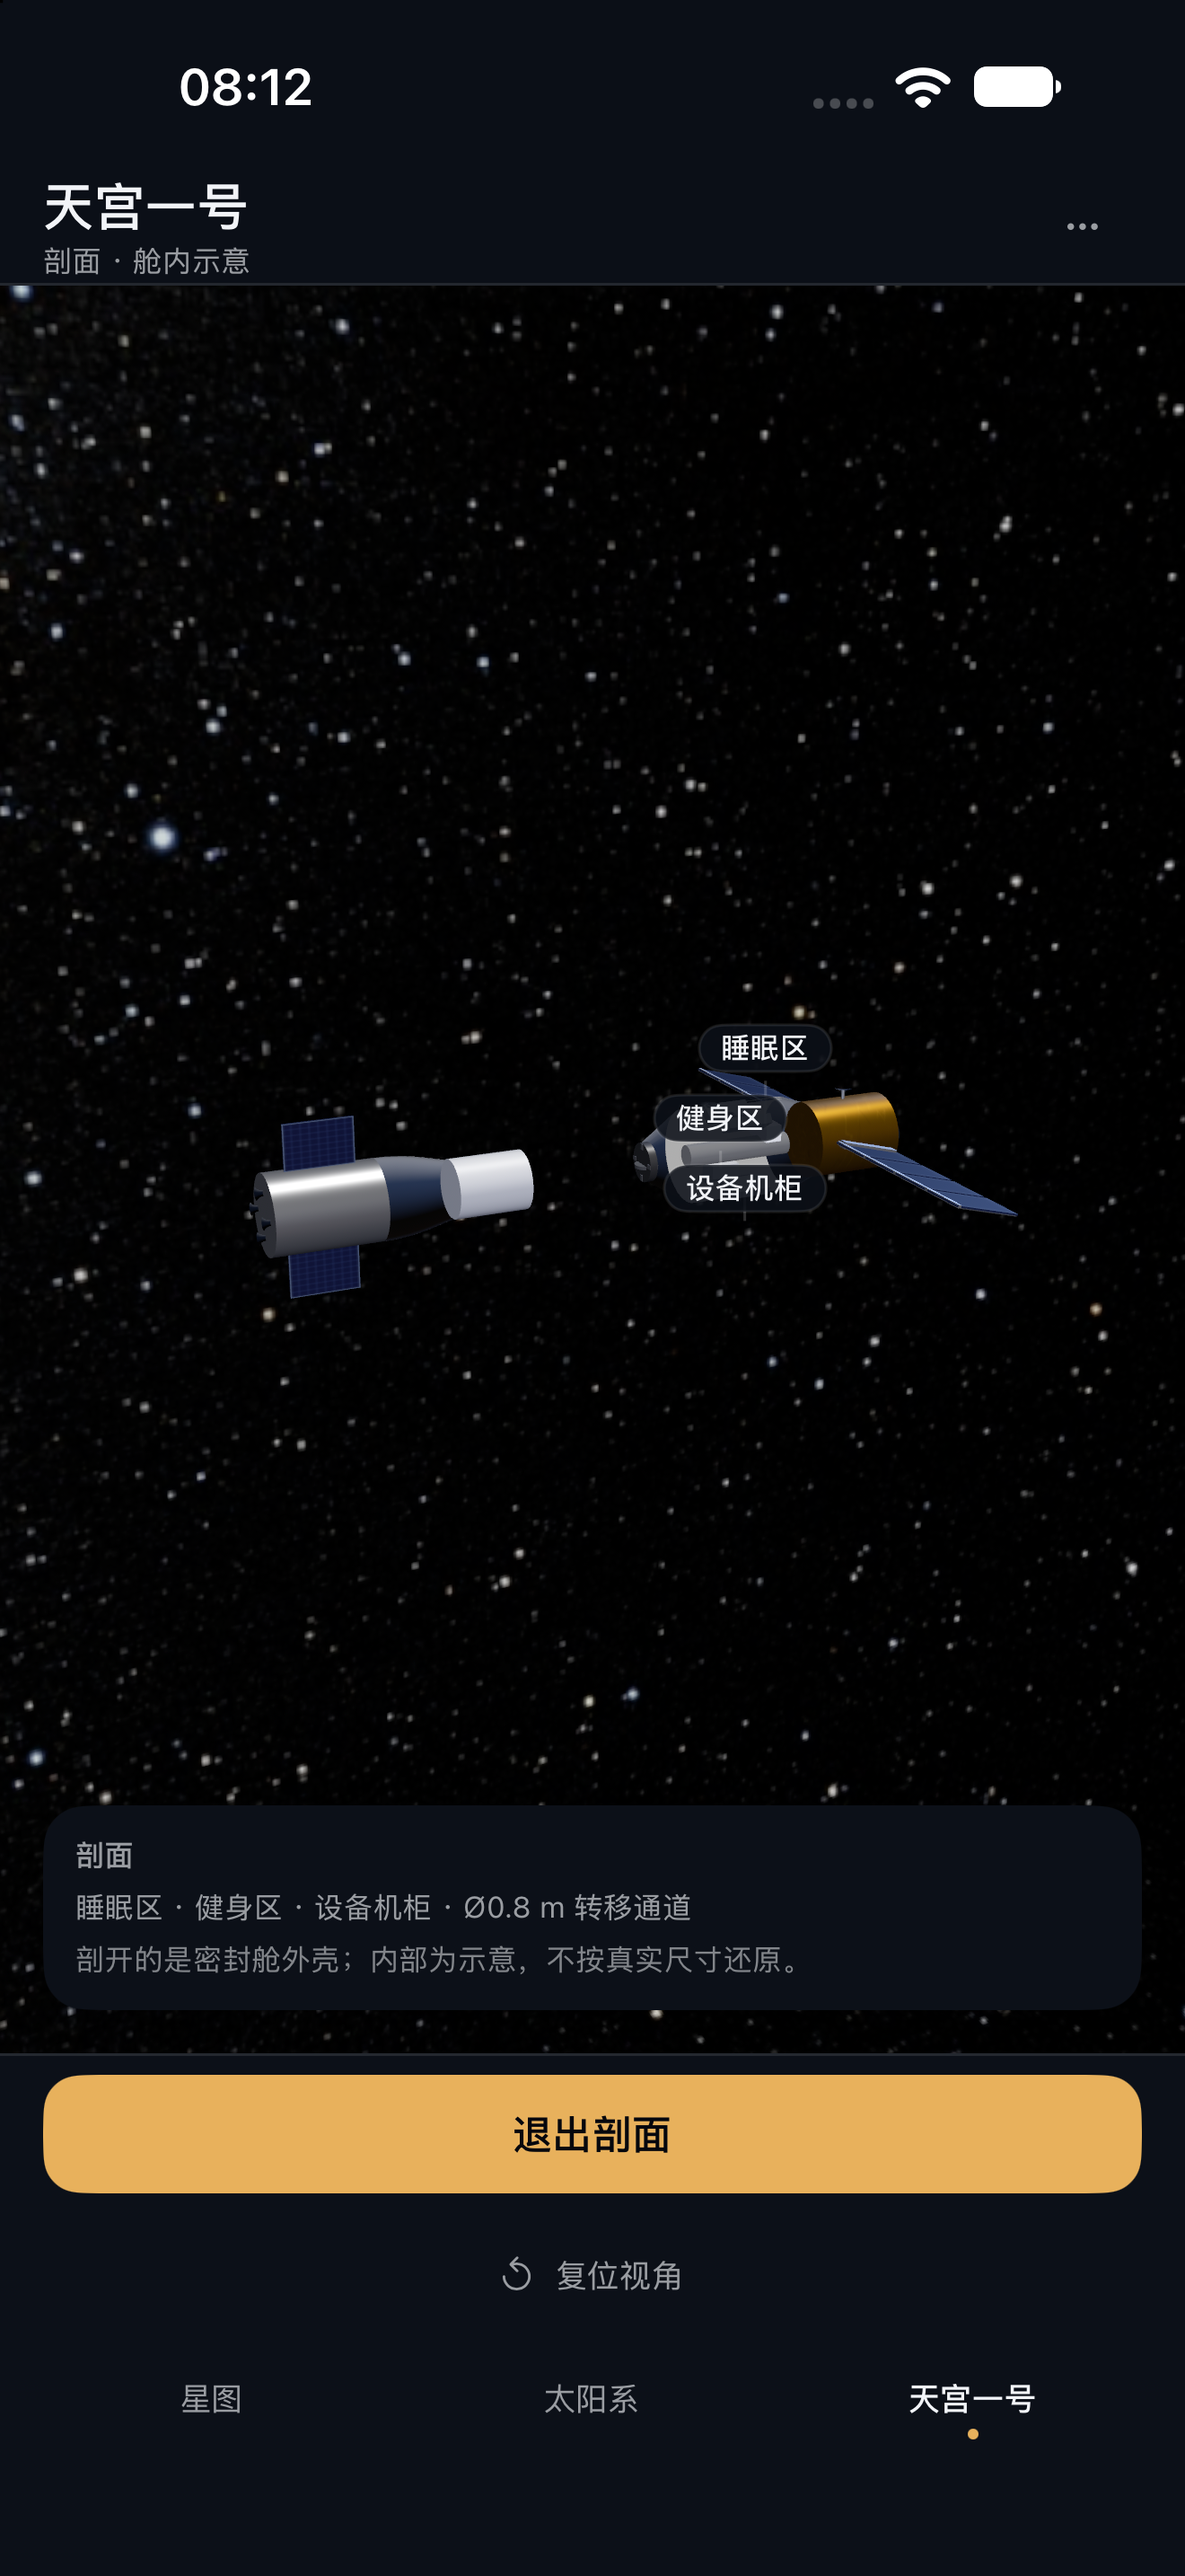
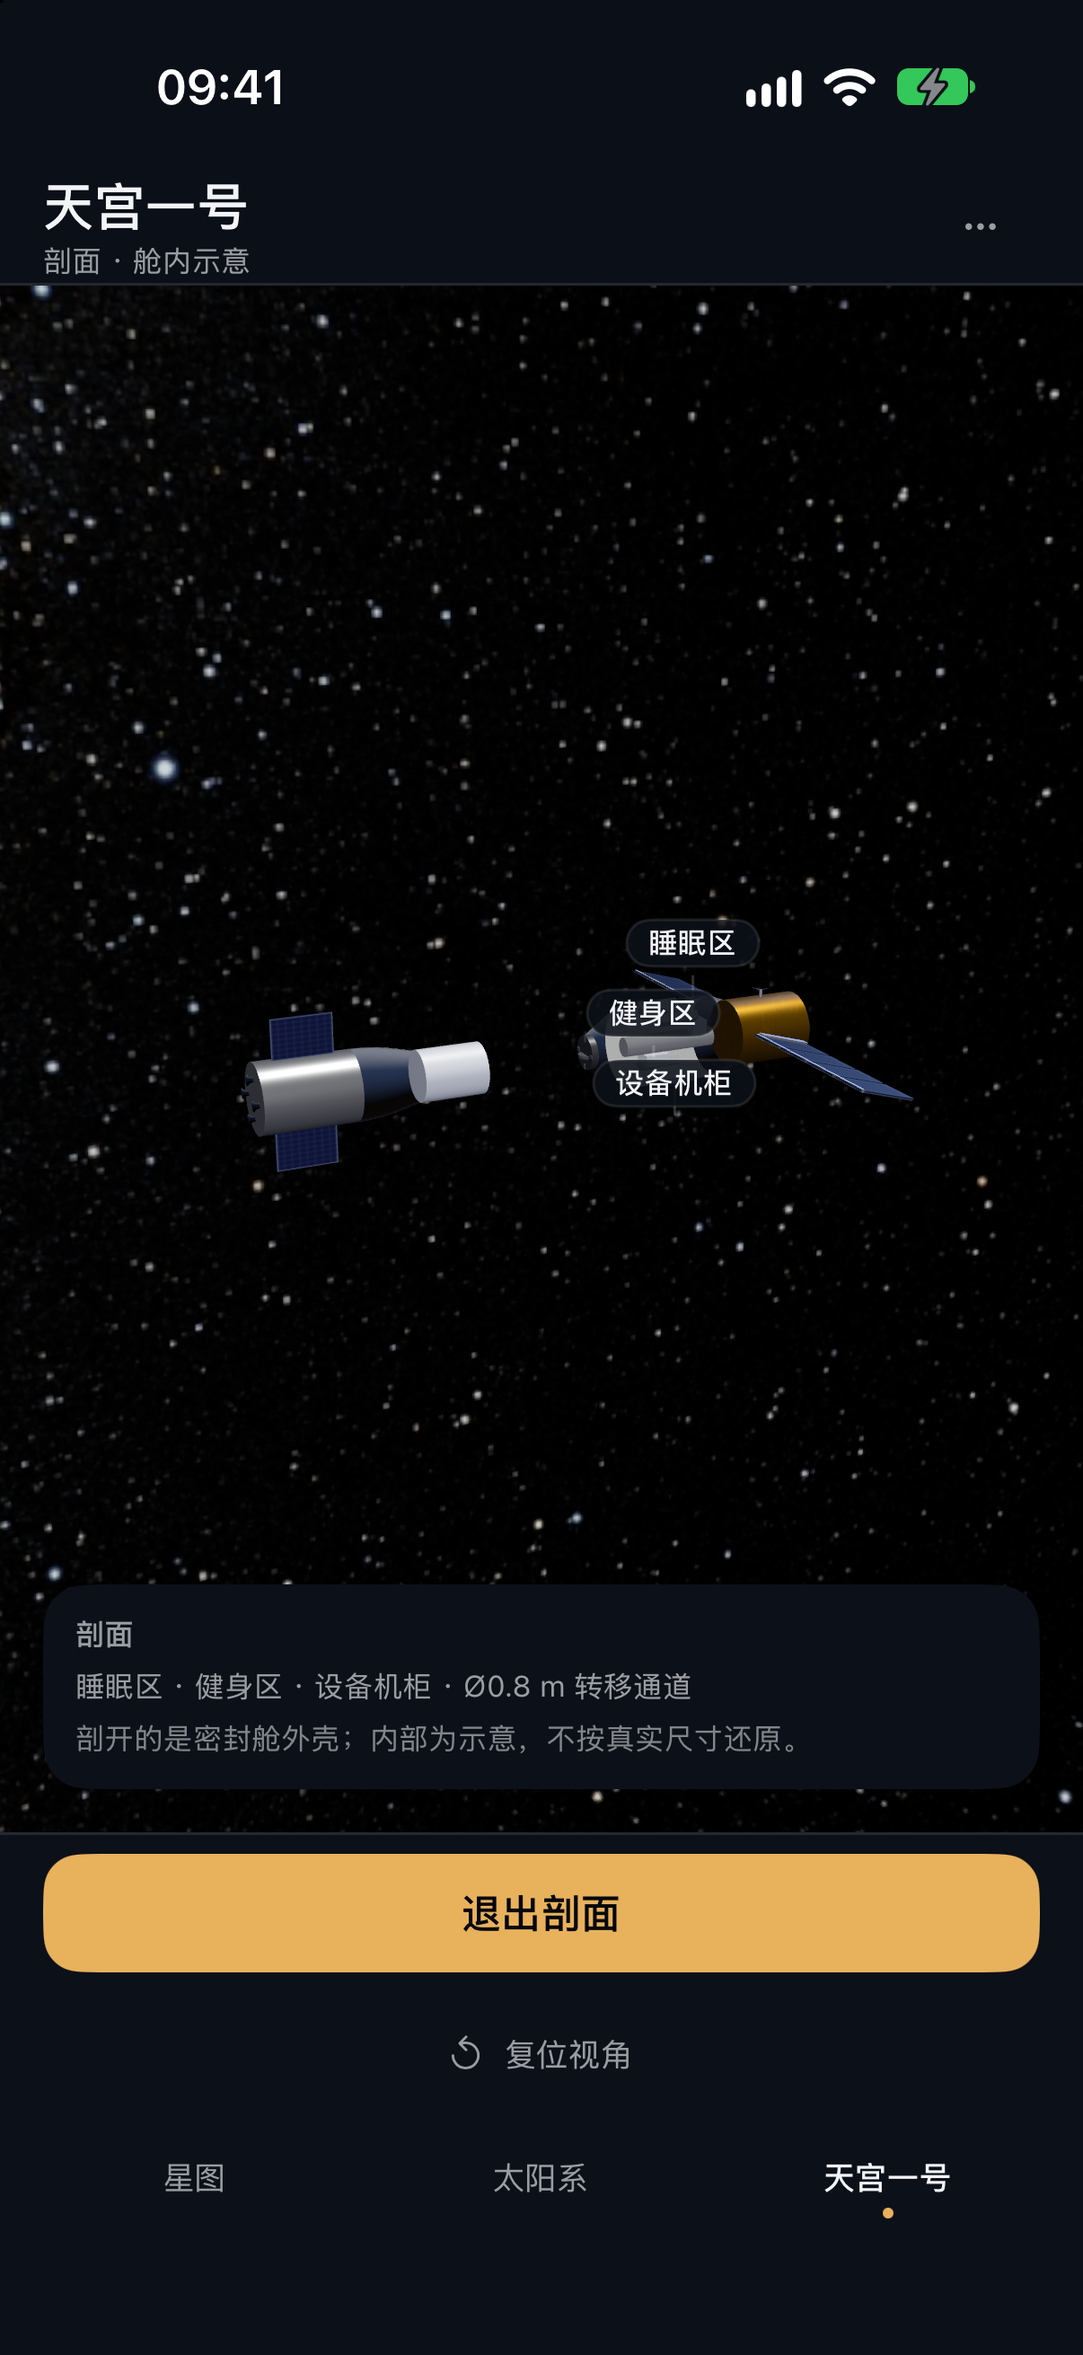
fix(appstore): 截图尺寸修正——必需档 1206×2622 重采，1320×2868 降为可选备用
ASC 2026 分档：必需是 Dynamic Island (medium) 1179×2556/1206×2622，
1320×2868 属 large 可选档（依据 SportsHelper compose.py 实测结论）。
- 采集脚本默认机型改 iPhone 18 Pro，支持 SHOT_DEVICE/SHOT_OUT 双档采集
- 状态栏统一 9:41 满电（对齐 SportsHelper shoot_store.py 惯例）
- 必需档 6 张重采 + 大屏档 6 张归档，全部 RGB 无 alpha、≤8MB
- 目检：第 3 张今夜对齐金色选中、第 6 张剖面三标注齐全
- ASC-STEPS/APPSTORE.md 尺寸口径与上传槽位同步更新

diff --git a/docs/design/APPSTORE.md b/docs/design/APPSTORE.md
@@ -123,7 +123,7 @@ CC BY-SA 传染性说明见 `docs/assets/NASA-ASSETS.md`：数据文件须同许
 
 ### 7.2 截图（人工门禁项，agent 备好采集脚本）
 
-ASC 现行要求（iPhone）：**6.9" 或 6.5" 二选一必填**；6.9" = 1320×2868 或 1290×2796（iPhone 16/17 Pro Max 级）；仅竖屏 App 只需竖屏截图。**A2 已裁决 iPhone-only，无需 iPad 截图**（2026-11-17）。
+ASC 现行要求（iPhone，**2026-11-17 尺寸修正**，依据 SportsHelper `compose.py` 实测结论）：必需档是 **iPhone with Dynamic Island (medium)**——iPhone 18 Pro / 17 Pro / 16 Pro，收 **1179×2556 与 1206×2622**；1320×2868 / 1290×2796 属 large 档（Pro Max / Air），是**可选档**。旧版「6.9" 必填 1320×2868」口径作废。硬要求：精确像素、RGB 无 alpha、单张 ≤ 8MB。仅竖屏 App 只需竖屏截图。**A2 已裁决 iPhone-only，无需 iPad 截图**（2026-11-17）。
 
 建议 6 张（顺序即叙事）：
 
@@ -136,7 +136,7 @@ ASC 现行要求（iPhone）：**6.9" 或 6.5" 二选一必填**；6.9" = 1320×
 | 5 | 天宫一号拆解态 | `MODE=tiangong TG_SEPARATED=<四段> TG_FREEZE=1` |
 | 6 | 剖面或再入（二选一） | `MODE=tiangong TG_CUTAWAY=1` / `TG_REENTRY=12` |
 
-采集：`tools/appstore-screenshots.sh`（agent 已备，跑 Pro Max 模拟器 → /tmp → 归档）。**截图上的营销文案框（可选）与最终挑选由人工定**；080 门禁通过前不提交。
+采集：`tools/appstore-screenshots.sh`（默认 **iPhone 18 Pro** 模拟器 → 1206×2622 必需档，归档 `docs/design/appstore-screenshots/`；`SPACEWALKER_SHOT_DEVICE="iPhone 18 Pro Max"` + `SPACEWALKER_SHOT_OUT=…` 采 1320×2868 备用档，归档 `docs/design/appstore-screenshots-1320/`）。状态栏统一 9:41 满电，出图转 RGB 无 alpha。**两套均已于 2026-11-17 重采并校验**（第 3 张今夜对齐金色选中、第 6 张剖面三标注齐全）。**截图上的营销文案框（可选）与最终挑选由人工定**。
 
 ### 7.3 App 预览视频（可选，非必填）
 

diff --git a/docs/appstore/ASC-STEPS.md b/docs/appstore/ASC-STEPS.md
@@ -12,7 +12,8 @@
 | **IPA（App Store 签名）** | `~/Developments/SpaceWalker-release/星槎-1.0-1.ipa`（8.6MB） | ✅ Distribution 签名、get-task-allow=false、1.0(1)、iPhone-only、icon 1024 无 alpha、出口合规已预答 |
 | Bundle ID 注册 | developer.apple.com 已自动注册（Archive 自动签名完成，AppIDName "XC com tango xingcha"） | ✅ 无需手动注册 |
 | 隐私政策 URL | **https://tangzzz-fan.github.io/SpaceWalker/** | ✅ 已上线，邮箱已填 |
-| 截图 6 张（1320×2868） | `docs/design/appstore-screenshots/01…06*.png` | ✅ 含 081/083/084 落地后重采版 |
+| 截图 6 张（**1206×2622 必需档**） | `docs/design/appstore-screenshots/01…06*.png` | ✅ 2026-11-17 尺寸修正重采：Dynamic Island medium 档、RGB 无 alpha、9:41 满电状态栏 |
+| 截图备用（1320×2868 可选大屏档） | `docs/design/appstore-screenshots-1320/01…06*.png` | ✅ 同一批画面，large 档备用（非必需） |
 | App 图标 1024 | `Sources/Resources/Assets.xcassets/AppIcon.appiconset/AppIcon-1024.png` | ✅ IPA 已携带，ASC 自动提取（无需单独传） |
 | 元数据全文 | `docs/design/APPSTORE.md` §1–§5 | ✅ 逐字段照抄 |
 
@@ -36,7 +37,7 @@ ASC → 我的 App → ＋ → 新建 App：
 - 内容版权：含第三方内容（CC BY-SA 数据 + NASA 公共域，应用内已署名）
 - 价格：**免费**（无内购无广告）
 - 版本 1.0 页：宣传文本 / 描述 / 关键词 / 新功能「首次发布。」/ 版权 `2026 Tang`（§3 全文照抄）
-- 截图：6 张按文件名顺序上传到 **6.9" 显示屏** 槽位（iPhone-only，无需 iPad）
+- 截图：6 张按文件名顺序上传到 **iPhone with Dynamic Island (medium)** 必需档槽位（1206×2622，即 6.3" Pro 档；iPhone-only，无需 iPad）。1320×2868 属 large 可选档，不必传；若页面仍显示旧 6.9" 槽位，传 `appstore-screenshots-1320/` 那套
 - 支持 URL / 营销 URL：留空
 
 ### ④ App 隐私（3 分钟）
